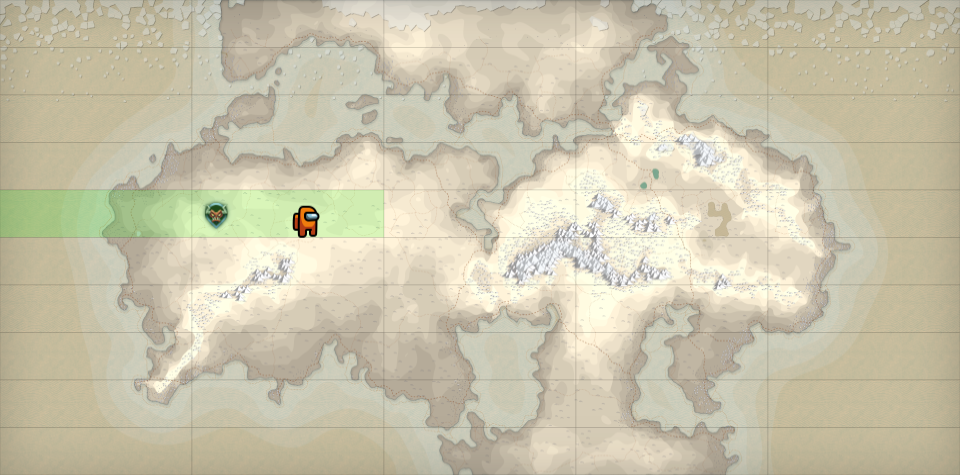
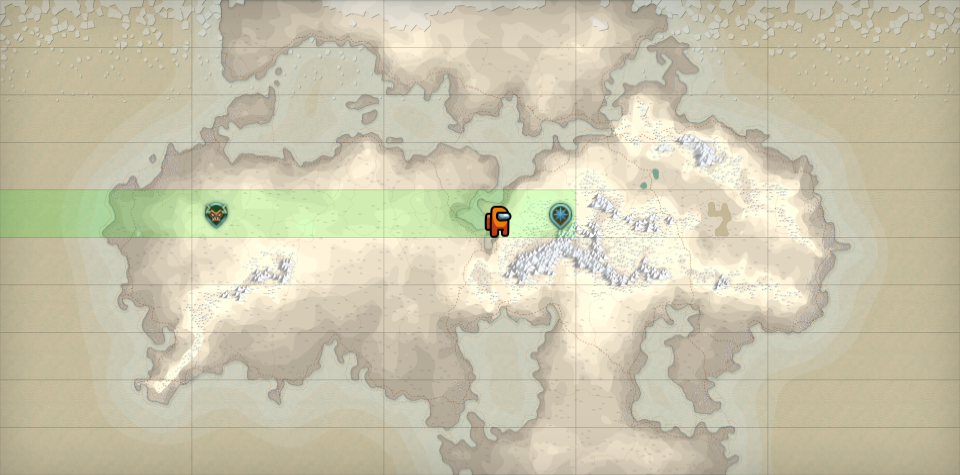
Updates

Changed region(s): [[0.375, 0.3832, 0.625, 0.5011], [0.2812, 0.4126, 0.3438, 0.5011]]

diff --git a/helpers/sendMapAndEvent.js b/helpers/sendMapAndEvent.js
@@ -2,7 +2,7 @@
 
 const { generateMapImage } = require('./mapGenerator');
 const { generateEventButtons } = require('./eventButtonHelper');
-const { getTeamData } = require('./databaseHelper');
+const { getTeamData, getEventProgressStatus } = require('./databaseHelper');
 const { logger } = require('./logger');
 const { ActionRowBuilder, ButtonBuilder, ButtonStyle } = require('discord.js');
 const tiles = require('../config/tiles');
@@ -45,7 +45,7 @@ function generateEventMessage(tileData, eventIndex = 0) {
   return message;
 }
 
-async function sendMapAndEvent(teamName, newTile, interaction, channel, eventIndex = 0, isEventComplete = false, teamData) {
+async function sendMapAndEvent(teamName, newTile, interaction, channel, eventIndex = 0, isEventComplete = false, teamData = null) {
   try {
     if (!newTile || typeof newTile !== 'string' || newTile.length < 2) {
       logger('Invalid tile format detected:', newTile);
@@ -55,11 +55,11 @@ async function sendMapAndEvent(teamName, newTile, interaction, channel, eventInd
 
     logger(`sendMapAndEvent called for team ${teamName}, tile ${newTile}`);
 
-    // Ensure that teamData and exploredTiles are valid
     if (!teamData || !teamData.exploredTiles) {
       logger('teamData or exploredTiles is missing. Fetching the latest data...');
-      // Fetch team data from the database or initialize default values
-      teamData = await getTeamData(teamName);
+      const allTeamData = await getTeamData();
+      teamData = allTeamData.find(team => team.teamName === teamName);
+
       if (!teamData || !teamData.exploredTiles) {
         logger(`Failed to retrieve explored tiles for team ${teamName}`);
         await interaction.editReply({ content: 'Could not retrieve team data. Please try again later.' });
@@ -72,30 +72,15 @@ async function sendMapAndEvent(teamName, newTile, interaction, channel, eventInd
 
     await channel.send({
       files: [{ attachment: mapImagePath, name: 'map.png' }],
-      content: `Team ${teamName} has moved to tile ${newTile}.`,
+      content: `Team ${teamName} has moved to tile ${newTile}.`
     });
 
-    const tileData = tiles[newTile];
-    if (!tileData) {
-      logger(`Tile data not found for tile ${newTile}`);
-      await interaction.editReply({ content: `No events found for tile ${newTile}. Setting up camp to rest.` });
+    // Check if the tile's task has been completed
+    const eventStatus = await getEventProgressStatus(teamName, newTile);
 
-      const directionButtons = new ActionRowBuilder().addComponents(
-        new ButtonBuilder().setCustomId(`move_north_${teamName}`).setLabel('⬆ North').setStyle(ButtonStyle.Primary),
-        new ButtonBuilder().setCustomId(`move_south_${teamName}`).setLabel('⬇ South').setStyle(ButtonStyle.Primary),
-        new ButtonBuilder().setCustomId(`move_west_${teamName}`).setLabel('⬅ West').setStyle(ButtonStyle.Primary),
-        new ButtonBuilder().setCustomId(`move_east_${teamName}`).setLabel('➡ East').setStyle(ButtonStyle.Primary)
-      );
-
-      await channel.send({ content: 'You set up camp and rest for the night. Choose a direction to move:', components: [directionButtons] });
-      return;
-    }
-
-    const eventTypes = Array.isArray(tileData.event_type) ? tileData.event_type : [tileData.event_type];
-
-    if (eventTypes.includes('reset')) {
-      const resetMessage = generateEventMessage(tileData, eventIndex);
-      await channel.send(resetMessage);
+    if (eventStatus === "completed") {
+      // Task has been completed, show message and direction buttons
+      await channel.send(`✅ You've already cleared this area of the map. Choose a direction to continue your team's journey.`);
 
       const directionButtons = new ActionRowBuilder().addComponents(
         new ButtonBuilder().setCustomId(`move_north_${teamName}`).setLabel('⬆ North').setStyle(ButtonStyle.Primary),
@@ -106,10 +91,41 @@ async function sendMapAndEvent(teamName, newTile, interaction, channel, eventInd
 
       await channel.send({ content: 'Choose a direction to move:', components: [directionButtons] });
     } else {
+      const tileData = tiles[newTile];
+      if (!tileData) {
+        logger(`Tile data not found for tile ${newTile}`);
+        await interaction.editReply({ content: `No events found for tile ${newTile}. Setting up camp to rest.` });
+
+        const directionButtons = new ActionRowBuilder().addComponents(
+          new ButtonBuilder().setCustomId(`move_north_${teamName}`).setLabel('⬆ North').setStyle(ButtonStyle.Primary),
+          new ButtonBuilder().setCustomId(`move_south_${teamName}`).setLabel('⬇ South').setStyle(ButtonStyle.Primary),
+          new ButtonBuilder().setCustomId(`move_west_${teamName}`).setLabel('⬅ West').setStyle(ButtonStyle.Primary),
+          new ButtonBuilder().setCustomId(`move_east_${teamName}`).setLabel('➡ East').setStyle(ButtonStyle.Primary)
+        );
+
+        await channel.send({ content: 'You set up camp and rest for the night. Choose a direction to move:', components: [directionButtons] });
+        return;
+      }
+
+      const eventTypes = Array.isArray(tileData.event_type) ? tileData.event_type : [tileData.event_type];
+
+      if (eventTypes.includes('reset')) {
+        await channel.send(`🔄 You find yourself in a familiar place. Choose a direction to continue.`);
+        const directionButtons = new ActionRowBuilder().addComponents(
+          new ButtonBuilder().setCustomId(`move_north_${teamName}`).setLabel('⬆ North').setStyle(ButtonStyle.Primary),
+          new ButtonBuilder().setCustomId(`move_south_${teamName}`).setLabel('⬇ South').setStyle(ButtonStyle.Primary),
+          new ButtonBuilder().setCustomId(`move_west_${teamName}`).setLabel('⬅ West').setStyle(ButtonStyle.Primary),
+          new ButtonBuilder().setCustomId(`move_east_${teamName}`).setLabel('➡ East').setStyle(ButtonStyle.Primary)
+        );
+
+        await channel.send({ content: 'Choose a direction to move:', components: [directionButtons] });
+        return;  // Ensure no further event buttons are processed for reset
+      }
+
       const eventMessage = generateEventMessage(tileData, eventIndex);
       await channel.send(`Event starts for team ${teamName} at tile ${newTile}!\n\n**${eventMessage}**\n\n> ${tileData.task}`);
 
-      const eventButtons = generateEventButtons(eventTypes, teamName, isEventComplete);
+      const eventButtons = generateEventButtons(eventTypes.filter(type => type !== 'transport link'), teamName, isEventComplete);
       await channel.send({ components: [eventButtons] });
     }
 

diff --git a/helpers/commandManager.js b/helpers/commandManager.js
@@ -1,5 +1,3 @@
-// commandManager.js
-
 const { REST, Routes } = require('discord.js');
 const fs = require('fs');
 const path = require('path');
@@ -8,13 +6,8 @@ const { logger } = require('./logger');
 // Setup REST with the token
 const rest = new REST({ version: '10' }).setToken(process.env.DISCORD_TOKEN);
 
-// Helper function to add a delay
-const delay = ms => new Promise(resolve => setTimeout(resolve, ms));
-
+// Register all commands and context menus
 async function registerCommandsAndContextMenus(CLIENT_ID, GUILD_ID) {
-  console.log('CLIENT_ID:', CLIENT_ID);  // Debugging log
-  console.log('GUILD_ID:', GUILD_ID);    // Debugging log
-
   try {
     logger('Started clearing and refreshing guild (/) slash commands and context menus.');
 
@@ -35,67 +28,15 @@ async function registerCommandsAndContextMenus(CLIENT_ID, GUILD_ID) {
     const combined = [...commands, ...contextMenus];
     logger(`Total commands & context menus to register: ${combined.length}`);
 
-    // Register all commands in batches
-    await registerBatch(combined, CLIENT_ID, GUILD_ID);
-    logger('Finished registering all commands and context menus.');
+    // Register all commands in one request
+    await rest.put(
+      Routes.applicationGuildCommands(CLIENT_ID, GUILD_ID),
+      { body: combined }
+    );
+    logger('Successfully registered all commands and context menus.');
   } catch (error) {
     logger('Error during registration of commands and context menus:', error);
   }
-}
-
-// Register all commands in batches
-async function registerBatch(commands, CLIENT_ID, GUILD_ID, retries = 4, delayFactor = 2000, batchSize = 5) {
-  try {
-    // Split commands into batches
-    const batches = [];
-    for (let i = 0; i < commands.length; i += batchSize) {
-      batches.push(commands.slice(i, i + batchSize));
-    }
-
-    // Process each batch sequentially
-    for (const batch of batches) {
-      logger(`Registering a batch of ${batch.length} commands...`);
-      
-      // Try to register the current batch
-      const response = await withTimeout(
-        rest.put(Routes.applicationGuildCommands(CLIENT_ID, GUILD_ID), { body: batch }),
-        60000  // Increased timeout to 60 seconds
-      );
-      
-      logger(`Successfully registered a batch of ${batch.length} commands.`);
-      
-      // Log rate limit headers
-      if (response?.headers) {
-        const rateLimitRemaining = response.headers['x-ratelimit-remaining'];
-        const rateLimitReset = response.headers['x-ratelimit-reset'];
-        const rateLimitLimit = response.headers['x-ratelimit-limit'];
-
-        if (rateLimitRemaining || rateLimitReset || rateLimitLimit) {
-          logger(`Rate Limit - Remaining: ${rateLimitRemaining}, Limit: ${rateLimitLimit}, Reset: ${new Date(rateLimitReset * 1000).toISOString()}`);
-        }
-
-        if (rateLimitRemaining === '0') {
-          const resetInMs = (rateLimitReset * 1000) - Date.now();
-          logger(`Rate limit hit, waiting ${resetInMs / 1000} seconds before continuing...`);
-          await delay(resetInMs);
-        }
-      }
-    }
-  } catch (error) {
-    if (retries > 0) {
-      logger(`Error occurred while registering batch. Retrying... Error:`, error);
-      await delay(delayFactor); // Exponential backoff
-      return registerBatch(commands, CLIENT_ID, GUILD_ID, retries - 1, delayFactor * 2, batchSize);
-    } else {
-      logger(`Failed to register batch after retries.`, error);
-    }
-  }
-}
-
-// Function to wrap an API call with a timeout
-async function withTimeout(promise, ms) {
-  const timeout = new Promise((_, reject) => setTimeout(() => reject(new Error('Request timeout')), ms));
-  return Promise.race([promise, timeout]);
 }
 
 // Function to delete all guild commands

diff --git a/helpers/eventButtonHelper.js b/helpers/eventButtonHelper.js
@@ -8,14 +8,18 @@ function generateEventButtons(eventTypes, teamName, isEventCompleted = false) {
     const eventTypeArray = Array.isArray(eventTypes) ? eventTypes : [eventTypes]; // Handle multiple event types
     const eventButtons = new ActionRowBuilder();
 
-    if (isEventCompleted || eventTypeArray.every(type => type === 'transport link')) {
-        // Show "Choose Direction" or "Use Transport" button only if events are completed or if the tile only has transport
-        eventButtons.addComponents(
-            new ButtonBuilder().setCustomId(`choose_direction_${teamName}`).setLabel('Choose Direction').setStyle(ButtonStyle.Primary)
-        );
-        eventButtons.addComponents(
-            new ButtonBuilder().setCustomId(`use_transport_${teamName}`).setLabel('Use Transport').setStyle(ButtonStyle.Secondary)
-        );
+    if (isEventCompleted) {
+        // Show "Use Transport" if available after all events are completed
+        if (eventTypeArray.includes('transport link')) {
+            eventButtons.addComponents(
+                new ButtonBuilder().setCustomId(`use_transport_${teamName}`).setLabel('Use Transport').setStyle(ButtonStyle.Secondary)
+            );
+        } else {
+            // Show "Choose Direction" only when no transport links are present
+            eventButtons.addComponents(
+                new ButtonBuilder().setCustomId(`choose_direction_${teamName}`).setLabel('Choose Direction').setStyle(ButtonStyle.Primary)
+            );
+        }
         return eventButtons;
     }
 
@@ -38,7 +42,7 @@ function generateEventButtons(eventTypes, teamName, isEventCompleted = false) {
                     new ButtonBuilder().setCustomId(`forfeit_puzzle_${teamName}`).setLabel('Forfeit Puzzle').setStyle(ButtonStyle.Danger)
                 );
                 break;
-            case 'quest':  // Add handling for quests
+            case 'quest':
                 eventButtons.addComponents(
                     new ButtonBuilder().setCustomId(`complete_quest_${teamName}`).setLabel('Complete Quest').setStyle(ButtonStyle.Success)
                 );

diff --git a/bot.js b/bot.js
@@ -90,6 +90,21 @@ async function handleButtonInteraction(interaction) {
   try {
     const [action, directionOrType, teamName] = interaction.customId.split('_');
 
+    // Check for direction buttons from /move_team command
+    if (['north', 'south', 'west', 'east'].includes(action)) {
+      const moveTeamCommand = require('./commands/move_team');
+      return await moveTeamCommand.handleButton(interaction);
+    }
+
+    // Handle 'choose_direction' button interaction
+    if (action === `choose_direction_${teamName}`) {
+      return await interaction.reply({ content: 'Choose a direction to move:', ephemeral: true });
+    }
+
+    if (action === 'use_transport') {
+      return await interaction.reply({ content: 'You have used the transport link.', ephemeral: true });
+    }
+
     if (['approve', 'reject'].includes(action)) {
       const approveButton = new ButtonBuilder()
         .setCustomId(`confirmApprove_${teamName}_${directionOrType}`)

diff --git a/commands/move_team.js b/commands/move_team.js
@@ -53,7 +53,6 @@ module.exports = {
       await handleDirectionMove(interaction, selectedTeam, direction);  // Delegate movement handling
     } else if (direction === 'complete') {
       // Task completion logic (if applicable)
-      // If you need to complete a task, implement that here
     }
   }
 };
